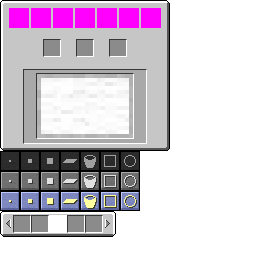
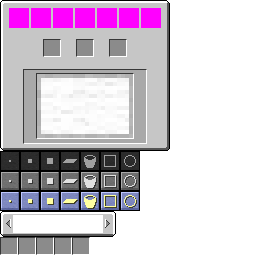
Additions to Flag

Changed region(s): [[0.0, 0.8125, 0.4062, 1.0]]

diff --git a/src/main/java/useless/legacyui/Gui/Containers/LegacyContainerFlag.java b/src/main/java/useless/legacyui/Gui/Containers/LegacyContainerFlag.java
@@ -1,15 +1,26 @@
 package useless.legacyui.Gui.Containers;
 
+import net.minecraft.client.Minecraft;
 import net.minecraft.core.block.entity.TileEntityFlag;
+import net.minecraft.core.item.Item;
+import net.minecraft.core.item.ItemStack;
 import net.minecraft.core.player.inventory.ContainerFlag;
 import net.minecraft.core.player.inventory.IInventory;
 import net.minecraft.core.player.inventory.slot.Slot;
 import net.minecraft.core.player.inventory.slot.SlotDye;
+import useless.legacyui.Gui.GuiScreens.GuiLegacyFlag;
 import useless.legacyui.Gui.Slots.SlotCraftingDisplayLegacy;
+import useless.legacyui.LegacyUI;
+
+import java.util.ArrayList;
+import java.util.List;
 
 public class LegacyContainerFlag extends ContainerFlag {
     public IInventory inventory;
     public TileEntityFlag flag;
+    public static List<Integer> dyesSlotsInventory = new ArrayList<>();
+    public static List<Integer> dyesMetaAtSlot = new ArrayList<>();
+    private Minecraft mc = Minecraft.getMinecraft(this);
     public LegacyContainerFlag(IInventory inv, TileEntityFlag flag) {
         super(inv, flag);
         this.flag = flag;
@@ -30,8 +41,58 @@ public class LegacyContainerFlag extends ContainerFlag {
         for (int i = 0; i < 9; ++i) {
             this.addSlot(new Slot(inventory, i, 8 + 170 + i * 18, 158));
         }
-        this.addSlot(new SlotCraftingDisplayLegacy(101, 44, 40, flag.getStackInSlot(36), true, false, -1));
-        this.addSlot(new SlotCraftingDisplayLegacy(102, 77, 40, flag.getStackInSlot(37), true, false, -1));
-        this.addSlot(new SlotCraftingDisplayLegacy(103, 110, 40, flag.getStackInSlot(38), true, false, -1));
+        switch (GuiLegacyFlag.selectedDyeSlot){
+            case 1:
+                this.addSlot(new SlotCraftingDisplayLegacy(101, 44, 40, flag.getStackInSlot(36), true, false, -1));
+                this.addSlot(new SlotCraftingDisplayLegacy(103, 110, 40, flag.getStackInSlot(38), true, false, -1));
+                scrollBarSlots();
+                break;
+            case 2:
+                this.addSlot(new SlotCraftingDisplayLegacy(102, 77, 40, flag.getStackInSlot(37), true, false, -1));
+                scrollBarSlots();
+                break;
+            case 3:
+                this.addSlot(new SlotCraftingDisplayLegacy(101, 44, 40, flag.getStackInSlot(36), true, false, -1));
+                this.addSlot(new SlotCraftingDisplayLegacy(103, 110, 40, flag.getStackInSlot(38), true, false, -1));
+                scrollBarSlots();
+                break;
+            default:
+                this.addSlot(new SlotCraftingDisplayLegacy(101, 44, 40, flag.getStackInSlot(36), true, false, -1));
+                this.addSlot(new SlotCraftingDisplayLegacy(102, 77, 40, flag.getStackInSlot(37), true, false, -1));
+                this.addSlot(new SlotCraftingDisplayLegacy(103, 110, 40, flag.getStackInSlot(38), true, false, -1));
+                break;
+        }
+
+    }
+    private void scrollBarSlots(){
+        findDyes();
+        int offset = GuiLegacyFlag.selectedDyeSlot - 1;
+        if (offset < 0) {return;}
+        ItemStack[] stacks = new ItemStack[4];
+        for (int i = 0; i < stacks.length; i++) {
+            if (i < dyesSlotsInventory.size()){
+                stacks[i] = new ItemStack(Item.dye.id, 1, dyesMetaAtSlot.get(i));
+            } else {
+                stacks[i] = null;
+            }
+        }
+        addSlot(new SlotCraftingDisplayLegacy(105, 8 + 33 * offset, 40, stacks[0], true, false, -1));
+        addSlot(new SlotCraftingDisplayLegacy(106, 26 + 33 * offset, 40, stacks[1], true, false, -1));
+        addSlot(new SlotCraftingDisplayLegacy(107, 62 + 33 * offset, 40, stacks[2], true, false, -1));
+        addSlot(new SlotCraftingDisplayLegacy(108, 80 + 33 * offset, 40, stacks[3], true, false, -1));
+    }
+    public void findDyes(){
+        dyesSlotsInventory.clear();
+        dyesMetaAtSlot.clear();
+        ItemStack[] mainInventory = mc.thePlayer.inventory.mainInventory;
+        for (int i = 0; i < mainInventory.length; i++){
+            if (mainInventory[i] != null && mainInventory[i].getItem() == Item.dye){
+                dyesSlotsInventory.add(i);
+                dyesMetaAtSlot.add(mainInventory[i].getMetadata());
+            }
+        }
+        for (int i = 0; i < dyesSlotsInventory.size(); i++) {
+            LegacyUI.LOGGER.info("Slot: " + dyesSlotsInventory.get(i) + " | Meta: " + dyesMetaAtSlot.get(i));
+        }
     }
 }

diff --git a/src/main/java/useless/legacyui/Gui/GuiScreens/GuiLegacyFlag.java b/src/main/java/useless/legacyui/Gui/GuiScreens/GuiLegacyFlag.java
@@ -16,6 +16,7 @@ import net.minecraft.core.util.helper.Colors;
 import net.minecraft.core.util.helper.MathHelper;
 import org.lwjgl.opengl.GL11;
 import useless.legacyui.Gui.Containers.LegacyContainerFlag;
+import useless.legacyui.Gui.GuiElements.GuiRegion;
 
 public class GuiLegacyFlag extends GuiContainer
         implements IDrawableSurface<Byte> {
@@ -40,9 +41,12 @@ public class GuiLegacyFlag extends GuiContainer
     GuiSurface drawOverlaySurface;
     private int GUIx;
     private int GUIy;
-
+    public static int selectedDyeSlot = -1;
+    public GuiRegion dyeSlotRegion;
+    public LegacyContainerFlag containerFlag;
     public GuiLegacyFlag(EntityPlayer player, TileEntityFlag flagTileEntity, RenderEngine renderEngine) {
         super(new LegacyContainerFlag(player.inventory, flagTileEntity));
+        containerFlag = (LegacyContainerFlag)inventorySlots;
         this.renderEngineInstance = renderEngine;
         this.tileEntity = flagTileEntity;
         this.xSize = 170;
@@ -59,6 +63,7 @@ public class GuiLegacyFlag extends GuiContainer
     public void initGui() {
         GUIx = (this.width - this.xSize) / 2;
         GUIy = (this.height - this.ySize) / 2;
+        dyeSlotRegion = new GuiRegion(200, GUIx + 3, GUIy + 37, 164, 22);
         super.initGui();
         this.controlList.clear();
         this.canvasX = GUIx + 37;
@@ -215,6 +220,10 @@ public class GuiLegacyFlag extends GuiContainer
         UtilGui.bindTexture("/assets/legacyui/gui/legacyflag.png");
         drawTexturedModalRect(GUIx, GUIy, 0, 0, this.xSize, this.ySize);
 
+        if (selectedDyeSlot > 0){
+            drawTexturedModalRect(GUIx + 7 + (33 * (selectedDyeSlot-1)), GUIy + 39, 0, 237, 90, 18);
+        }
+
         if (selectedColor == 0) {
             drawString(fontRenderer, "1", GUIx + 49, GUIy + 59, -1);
         } else {
@@ -231,10 +240,24 @@ public class GuiLegacyFlag extends GuiContainer
             drawStringNoShadow(fontRenderer, "3", GUIx + 115, GUIy + 59, -8421505);
         }
     }
+    protected void drawGuiContainerForegroundLayer() {
+        if (selectedDyeSlot > 0){
+            UtilGui.bindTexture("/assets/legacyui/gui/legacyflag.png");
+            drawTexturedModalRect( - 6  + (33 * (selectedDyeSlot - 1)), 35, 0, 211, 116, 26);
+        }
+    }
 
     @Override
     public void drawScreen(int x, int y, float renderPartialTicks) {
+        if (dyeSlotRegion.isHovered(x, y) && selectedColor < 3){
+            setSelectedDye(selectedColor + 1);
+        } else {
+            setSelectedDye(-1);
+        }
+        containerFlag.setSlots();
+
         super.drawScreen(x, y, renderPartialTicks);
+
         this.drawOverlaySurface.clear();
         int xInCanvas = (x - this.canvasX) / 4;
         int yInCanvas = (y - this.canvasY) / 4;
@@ -321,5 +344,8 @@ public class GuiLegacyFlag extends GuiContainer
         if (this.mc.theWorld.isClientSide) {
             this.mc.getSendQueue().addToSendQueue(new Packet141UpdateFlag(this.tileEntity.xCoord, this.tileEntity.yCoord, this.tileEntity.zCoord, this.tileEntity.flagColors, this.tileEntity.owner));
         }
+    }
+    public void setSelectedDye(int newDye){
+        selectedDyeSlot = newDye;
     }
 }

diff --git a/src/main/java/useless/legacyui/Helper/InventoryHelper.java b/src/main/java/useless/legacyui/Helper/InventoryHelper.java
@@ -82,7 +82,6 @@ public class InventoryHelper {
 
         return -1;
     }
-
     public static Block[] getAltGroup(ItemStack itemStack){
         for (int i = 0; i < CraftingManager.blockAlternatives.length; i++){
             for (int j = 0; j < CraftingManager.blockAlternatives[i].length; j++){
